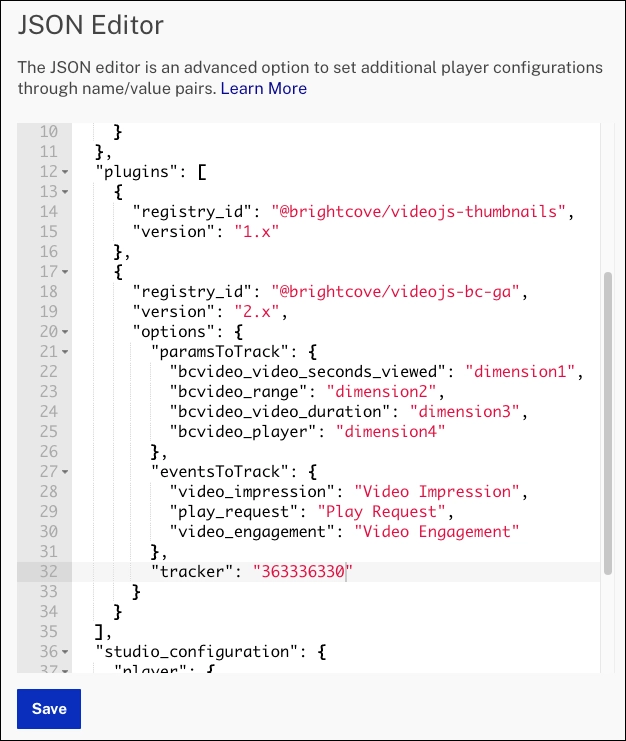
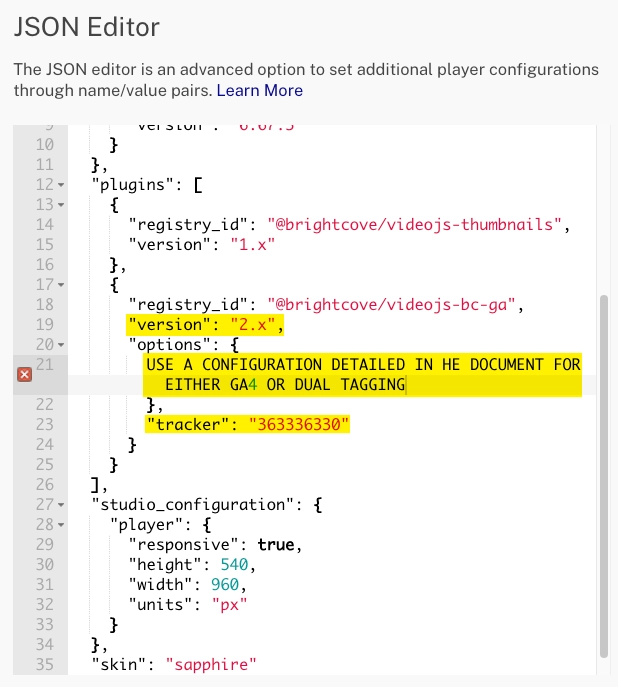
wip ga doc

diff --git a/_site/plugins/google-analytics.html b/_site/plugins/google-analytics.html
@@ -1811,26 +1811,32 @@
   <summary>In this topic, you will learn the use of the Google Analytics plugin and how it can be implemented using Studio and through custom coding.</summary>
   <section class="bcls-section">
     <h2 id="Overview">Overview</h2>
-    <p>The Brightcove Google Analytics plugin provides functionality to send data to Google Analytics. Note that the plugin supports both Google Analytics 4 and Universal Analytics. This document contains five main content sections, those being:</p>
+    <p>The Brightcove Google Analytics plugin provides functionality to send data to Google Analytics. Note that the plugin supports both Google Analytics 4 and the older Universal Analytics. This document contains five main content sections, those being:</p>
     <ul>
       <li><a href="#Implement_using_Players_module">Implement using Players module</a>: Steps to follow to implement the plugin using Studio's <strong>Players</strong> module.</li>
-      <li><a href="#Implement_using_code">Implement using code</a>: Steps to follow to implement the plugin in and HTML page.</li>
+      <li><a href="#Implement_using_code">Implement using code</a>: Steps to follow to implement the plugin in an HTML page.</li>
       <li><a href="#Options">Options</a>: The configuration options available for the plugin.</li>
       <li><a href="#Events_and_custom_dimensions">Events and custom dimensions</a>: The data options to send to Google Analytics.</li>
-      <li><a href="#GA4_and_UA">Google Analytics 4 and Universal Analytics</a>: Configuration options for Google Analytics 4 AND another configuration for both Google Analytics 4 and Universal Analytics.</li>
+      <li><a href="#GA4_and_UA">Google Analytics 4 and Universal Analytics</a>: Configuration options for Google Analytics 4 AND another configuration for both Google Analytics 4 and Universal Analytics, referred to as <em>dual tagging</em>.</li>
     </ul>
+    <aside class="bcls-aside bcls-aside--information">Note that:
+      <ul>
+        <li>The plugin still supports Universal Analytics and it can be configured the same way as it was in the previous version of the plugin.</li>
+        <li>Support for GA4 and dual tagging is only available for self configuration at the moment and automated configuration via the Studio UI is not yet available.</li>
+      </ul>
+    </aside>
   </section>
 
   <section class="bcls-section">
     <h2 id="Implement_using_Players_module">Implement using Players module</h2>
-    <p>To implement the Google Analytics plugin using the <strong>Players</strong> module. Note that support for GA4 and dual tagging (both Google Analytics 4 and Universal Analytics) is only available for self configuration at the current time via Studio UI. Hence, if you wish to use GA4 or UA, you will need to follow the steps to alter the player's JSON configuration, as shown in steps 7-10. If you wish to use only UA, you need not do those extra steps. For example configurations see the <a href="#GA4_and_UA">Google Analytics 4 and Universal Analytics</a> section below for example configurations.</p>
+    <p>To implement the Google Analytics plugin using the <strong>Players</strong> module. Note that support for GA4 and dual tagging is only available for self configuration at the current time via the Studio UI. Hence, if you wish to use GA4 or dual tagging, you will need to follow the steps to alter the player's JSON configuration, as shown in steps 7-10. If you wish to use only UA, you need not do those extra steps. For example configurations see the <a href="#GA4_and_UA">Google Analytics 4 and Universal Analytics</a> section below for example configurations.</p>
     <ol class="bcls-tasklist">
       <li>In Studio select the <strong>Players</strong> module.</li>
       <li>Click the player to which you wish to add the Google Analytics plugin.</li>
       <li>In the Player's property screen select:
         <ol type="a">
           <li><strong>Third-Party Analytics -> Google Analytics</strong></li>
-          <li>Check the <strong>Enable Google Analytics</strong></li>
+          <li>Check <strong>Enable Google Analytics</strong></li>
           <li>Click <strong>Sign in to Google Account</strong></li>
         </ol>
         <figure class="bcls-figure">
@@ -1844,11 +1850,14 @@
         </figure>
       </li>
       <li>Click <strong>Save</strong>.</li>
-      <li>In the left-navigation click <strong>JSON editor</strong>.</li>
+      <li>
+        <aside class="bcls-aside bcls-aside--information">You need to do the rest of the steps in this section ONLY if you are configuring for GA4 or dual tagging.</aside>
+        In the left-navigation, click <strong>JSON editor</strong>.
+      </li>
       <li>You will need to make the following changes:
         <ul>
           <li>Change the version to <strong>2.x</strong>: <code>"version": "2.x",</code></li>
-          <li>Update the <strong>options</strong> and <strong>events to track</strong> as desired. See the #Events_and_custom_dimensions">Events and custom dimensions</a> section below for details.</li>
+          <li>Update the <strong>options</strong> and <strong>events to track</strong> as desired. See the <a href="#Events_and_custom_dimensions">Events and custom dimensions</a> section below for details.</li>
           <li>Change the <strong>tracker</strong> to your GA4 tracker ID.</li>
         </ul>
         Example:
@@ -1860,10 +1869,16 @@
   </section>
   <section class="bcls-section">
     <h2 id="Implement_using_code">Implement using code</h2>
-    <p>To implement a plugin the player needs to know the location of the plugin code, a stylesheet if needed, the plugin name and plugin configuration options. The location of the JavaScript plugin code (no CSS needed in this instance) is as follows:</p>
-    <pre class="line-numbers">
-<code class="language-javascript" translate="No">https://players.brightcove.net/videojs-bc-ga/2/videojs-bc-ga.min.js</code></pre>
-    <p>The name of the plugin is <code translate="No">bcGa</code>, and an example set of options is:</p>
+    <p>To implement a plugin, the player needs to know the location of the plugin code, a stylesheet location (if needed), the plugin name and plugin configuration options. For the Google Analytics plugin:
+    <ul>
+      <li>The location of the JavaScript plugin code (no CSS needed in this instance) is as follows:</p>
+        <pre class="line-numbers">
+        <code class="language-javascript" translate="No">https://players.brightcove.net/videojs-bc-ga/2/videojs-bc-ga.min.js</code></pre>
+      </li>
+      <li>The name of the plugin is <code translate="No">bcGa</code></li>
+      <li>Example configuration options can be found below in the <a href="#GA4_and_UA">Google Analytics 4 and Universal Analytics</a> section below</li>
+    </ul>
+
     <p>The following shows using the In-Page Embed implementation of the player to associate the Google Analytics plugin with a single instance of a player.</p>
     <ul>
       <li>Line 1: Gives the <code translate="No">video-js</code> tag an <code translate="No">id</code> attribute, with some value, in this case <strong>myPlayerID</strong>.</li>
@@ -1903,15 +1918,19 @@
 
   <section class="bcls-section">
     <h2 id="Options">Options</h2>
-    <p>The following plugin options are used when configuring the plugin:</p>
+    <p>The items listed below are plugin options are used when configuring the Google Analytics plugin. For clarification, in the <strong>paramsToTrack</strong> item an <em>index</em> is mentioned. This <em>index</em> is defined as:</p>
     <ul>
-      <li><strong>tracker</strong>: Google Analytics tracker ID</li>
-      <li><strong>eventsToTrack</strong>: An object that lists the events to send and the name that are used for those events.
+      <li>The index parameter corresponds to the index number of the custom dimension or metric that GA assigns in the configuration phase. Unlike other types of data, custom dimensions and metrics are sent to GA as parameters attached to other hits, like pageviews, events, or ecommerce transactions.</li>
+    </ul>
+
+    <ul>
+      <li><strong>tracker</strong>: Google Analytics tracker ID.</li>
+      <li><strong>eventsToTrack</strong>: An object that lists the events to send and the names that are used for those events.
         <ul>
           <li>Example: <code>{player_load: 'My name for player load event'}</code></li>
         </ul>
       </li>
-      <li><strong>paramsToTrack</strong>: An object that lists the params (aka custom dimensions) to include in events and the index to track them as. Use the format dimension1, dimension2, etc. based on the "index" field in GA. Do not use the dimension name.
+      <li><strong>paramsToTrack</strong>: An object that lists the parameters (that is, custom dimensions) to include in events and the index to track them as. Use the format <code>dimension1, dimension2, ...</code> based on the index field in GA. Do not use the dimension name.
         <ul>
           <li>Example: <code>{bcvideo_account: 'dimension1'}</code></li>
         </ul>

diff --git a/plugins/google-analytics.html b/plugins/google-analytics.html
@@ -8,26 +8,32 @@ parent: Plugins
   <summary>{{ page.description }}</summary>
   <section class="bcls-section">
     <h2 id="Overview">Overview</h2>
-    <p>The Brightcove Google Analytics plugin provides functionality to send data to Google Analytics. Note that the plugin supports both Google Analytics 4 and Universal Analytics. This document contains five main content sections, those being:</p>
+    <p>The Brightcove Google Analytics plugin provides functionality to send data to Google Analytics. Note that the plugin supports both Google Analytics 4 and the older Universal Analytics. This document contains five main content sections, those being:</p>
     <ul>
       <li><a href="#Implement_using_Players_module">Implement using Players module</a>: Steps to follow to implement the plugin using Studio's <strong>Players</strong> module.</li>
-      <li><a href="#Implement_using_code">Implement using code</a>: Steps to follow to implement the plugin in and HTML page.</li>
+      <li><a href="#Implement_using_code">Implement using code</a>: Steps to follow to implement the plugin in an HTML page.</li>
       <li><a href="#Options">Options</a>: The configuration options available for the plugin.</li>
       <li><a href="#Events_and_custom_dimensions">Events and custom dimensions</a>: The data options to send to Google Analytics.</li>
-      <li><a href="#GA4_and_UA">Google Analytics 4 and Universal Analytics</a>: Configuration options for Google Analytics 4 AND another configuration for both Google Analytics 4 and Universal Analytics.</li>
+      <li><a href="#GA4_and_UA">Google Analytics 4 and Universal Analytics</a>: Configuration options for Google Analytics 4 AND another configuration for both Google Analytics 4 and Universal Analytics, referred to as <em>dual tagging</em>.</li>
     </ul>
+    <aside class="bcls-aside bcls-aside--information">Note that:
+      <ul>
+        <li>The plugin still supports Universal Analytics and it can be configured the same way as it was in the previous version of the plugin.</li>
+        <li>Support for GA4 and dual tagging is only available for self configuration at the moment and automated configuration via the Studio UI is not yet available.</li>
+      </ul>
+    </aside>
   </section>
 
   <section class="bcls-section">
     <h2 id="Implement_using_Players_module">Implement using Players module</h2>
-    <p>To implement the Google Analytics plugin using the <strong>Players</strong> module. Note that support for GA4 and dual tagging (both Google Analytics 4 and Universal Analytics) is only available for self configuration at the current time via Studio UI. Hence, if you wish to use GA4 or UA, you will need to follow the steps to alter the player's JSON configuration, as shown in steps 7-10. If you wish to use only UA, you need not do those extra steps. For example configurations see the <a href="#GA4_and_UA">Google Analytics 4 and Universal Analytics</a> section below for example configurations.</p>
+    <p>To implement the Google Analytics plugin using the <strong>Players</strong> module. Note that support for GA4 and dual tagging is only available for self configuration at the current time via the Studio UI. Hence, if you wish to use GA4 or dual tagging, you will need to follow the steps to alter the player's JSON configuration, as shown in steps 7-10. If you wish to use only UA, you need not do those extra steps. For example configurations see the <a href="#GA4_and_UA">Google Analytics 4 and Universal Analytics</a> section below for example configurations.</p>
     <ol class="bcls-tasklist">
       <li>In Studio select the <strong>Players</strong> module.</li>
       <li>Click the player to which you wish to add the Google Analytics plugin.</li>
       <li>In the Player's property screen select:
         <ol type="a">
           <li><strong>Third-Party Analytics -> Google Analytics</strong></li>
-          <li>Check the <strong>Enable Google Analytics</strong></li>
+          <li>Check <strong>Enable Google Analytics</strong></li>
           <li>Click <strong>Sign in to Google Account</strong></li>
         </ol>
         <figure class="bcls-figure">
@@ -41,11 +47,14 @@ parent: Plugins
         </figure>
       </li>
       <li>Click <strong>Save</strong>.</li>
-      <li>In the left-navigation click <strong>JSON editor</strong>.</li>
+      <li>
+        <aside class="bcls-aside bcls-aside--information">You need to do the rest of the steps in this section ONLY if you are configuring for GA4 or dual tagging.</aside>
+        In the left-navigation, click <strong>JSON editor</strong>.
+      </li>
       <li>You will need to make the following changes:
         <ul>
           <li>Change the version to <strong>2.x</strong>: <code>"version": "2.x",</code></li>
-          <li>Update the <strong>options</strong> and <strong>events to track</strong> as desired. See the #Events_and_custom_dimensions">Events and custom dimensions</a> section below for details.</li>
+          <li>Update the <strong>options</strong> and <strong>events to track</strong> as desired. See the <a href="#Events_and_custom_dimensions">Events and custom dimensions</a> section below for details.</li>
           <li>Change the <strong>tracker</strong> to your GA4 tracker ID.</li>
         </ul>
         Example:
@@ -57,10 +66,16 @@ parent: Plugins
   </section>
   <section class="bcls-section">
     <h2 id="Implement_using_code">Implement using code</h2>
-    <p>To implement a plugin the player needs to know the location of the plugin code, a stylesheet if needed, the plugin name and plugin configuration options. The location of the JavaScript plugin code (no CSS needed in this instance) is as follows:</p>
-    <pre class="line-numbers">
-<code class="language-javascript" translate="No">https://players.brightcove.net/videojs-bc-ga/2/videojs-bc-ga.min.js</code></pre>
-    <p>The name of the plugin is <code translate="No">bcGa</code>, and an example set of options is:</p>
+    <p>To implement a plugin, the player needs to know the location of the plugin code, a stylesheet location (if needed), the plugin name and plugin configuration options. For the Google Analytics plugin:
+    <ul>
+      <li>The location of the JavaScript plugin code (no CSS needed in this instance) is as follows:</p>
+        <pre class="line-numbers">
+        <code class="language-javascript" translate="No">https://players.brightcove.net/videojs-bc-ga/2/videojs-bc-ga.min.js</code></pre>
+      </li>
+      <li>The name of the plugin is <code translate="No">bcGa</code></li>
+      <li>Example configuration options can be found below in the <a href="#GA4_and_UA">Google Analytics 4 and Universal Analytics</a> section below</li>
+    </ul>
+
     <p>The following shows using the In-Page Embed implementation of the player to associate the Google Analytics plugin with a single instance of a player.</p>
     <ul>
       <li>Line 1: Gives the <code translate="No">video-js</code> tag an <code translate="No">id</code> attribute, with some value, in this case <strong>myPlayerID</strong>.</li>
@@ -100,15 +115,19 @@ parent: Plugins
 
   <section class="bcls-section">
     <h2 id="Options">Options</h2>
-    <p>The following plugin options are used when configuring the plugin:</p>
+    <p>The items listed below are plugin options are used when configuring the Google Analytics plugin. For clarification, in the <strong>paramsToTrack</strong> item an <em>index</em> is mentioned. This <em>index</em> is defined as:</p>
     <ul>
-      <li><strong>tracker</strong>: Google Analytics tracker ID</li>
-      <li><strong>eventsToTrack</strong>: An object that lists the events to send and the name that are used for those events.
+      <li>The index parameter corresponds to the index number of the custom dimension or metric that GA assigns in the configuration phase. Unlike other types of data, custom dimensions and metrics are sent to GA as parameters attached to other hits, like pageviews, events, or ecommerce transactions.</li>
+    </ul>
+
+    <ul>
+      <li><strong>tracker</strong>: Google Analytics tracker ID.</li>
+      <li><strong>eventsToTrack</strong>: An object that lists the events to send and the names that are used for those events.
         <ul>
           <li>Example: <code>{player_load: 'My name for player load event'}</code></li>
         </ul>
       </li>
-      <li><strong>paramsToTrack</strong>: An object that lists the params (aka custom dimensions) to include in events and the index to track them as. Use the format dimension1, dimension2, etc. based on the "index" field in GA. Do not use the dimension name.
+      <li><strong>paramsToTrack</strong>: An object that lists the parameters (that is, custom dimensions) to include in events and the index to track them as. Use the format <code>dimension1, dimension2, ...</code> based on the index field in GA. Do not use the dimension name.
         <ul>
           <li>Example: <code>{bcvideo_account: 'dimension1'}</code></li>
         </ul>
